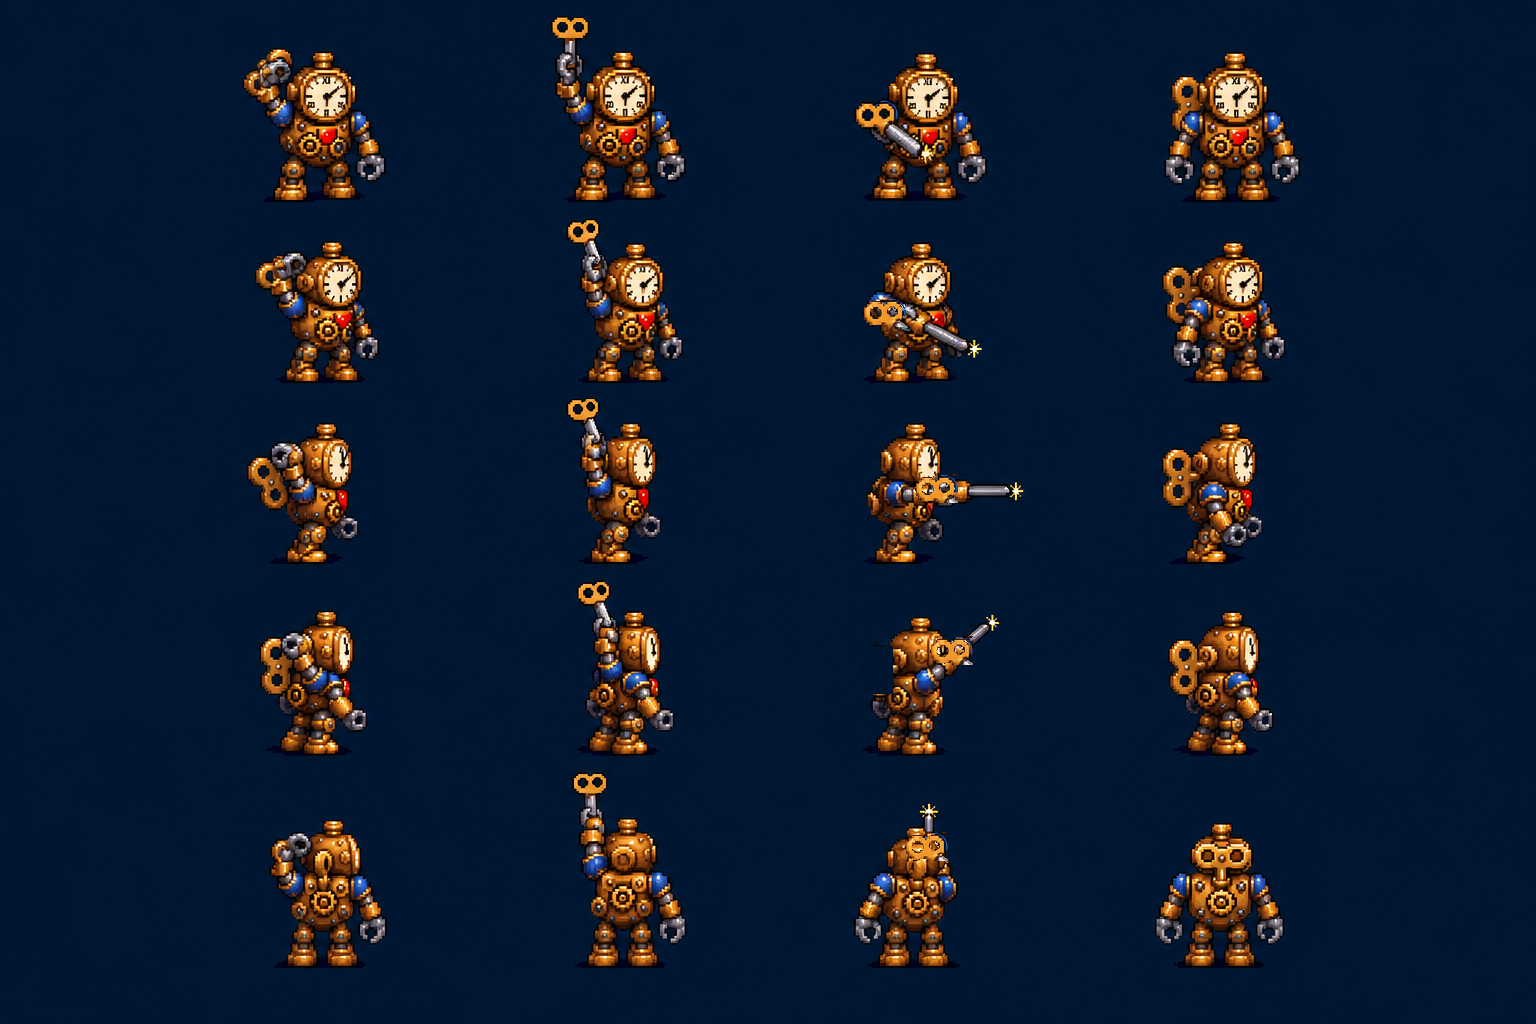
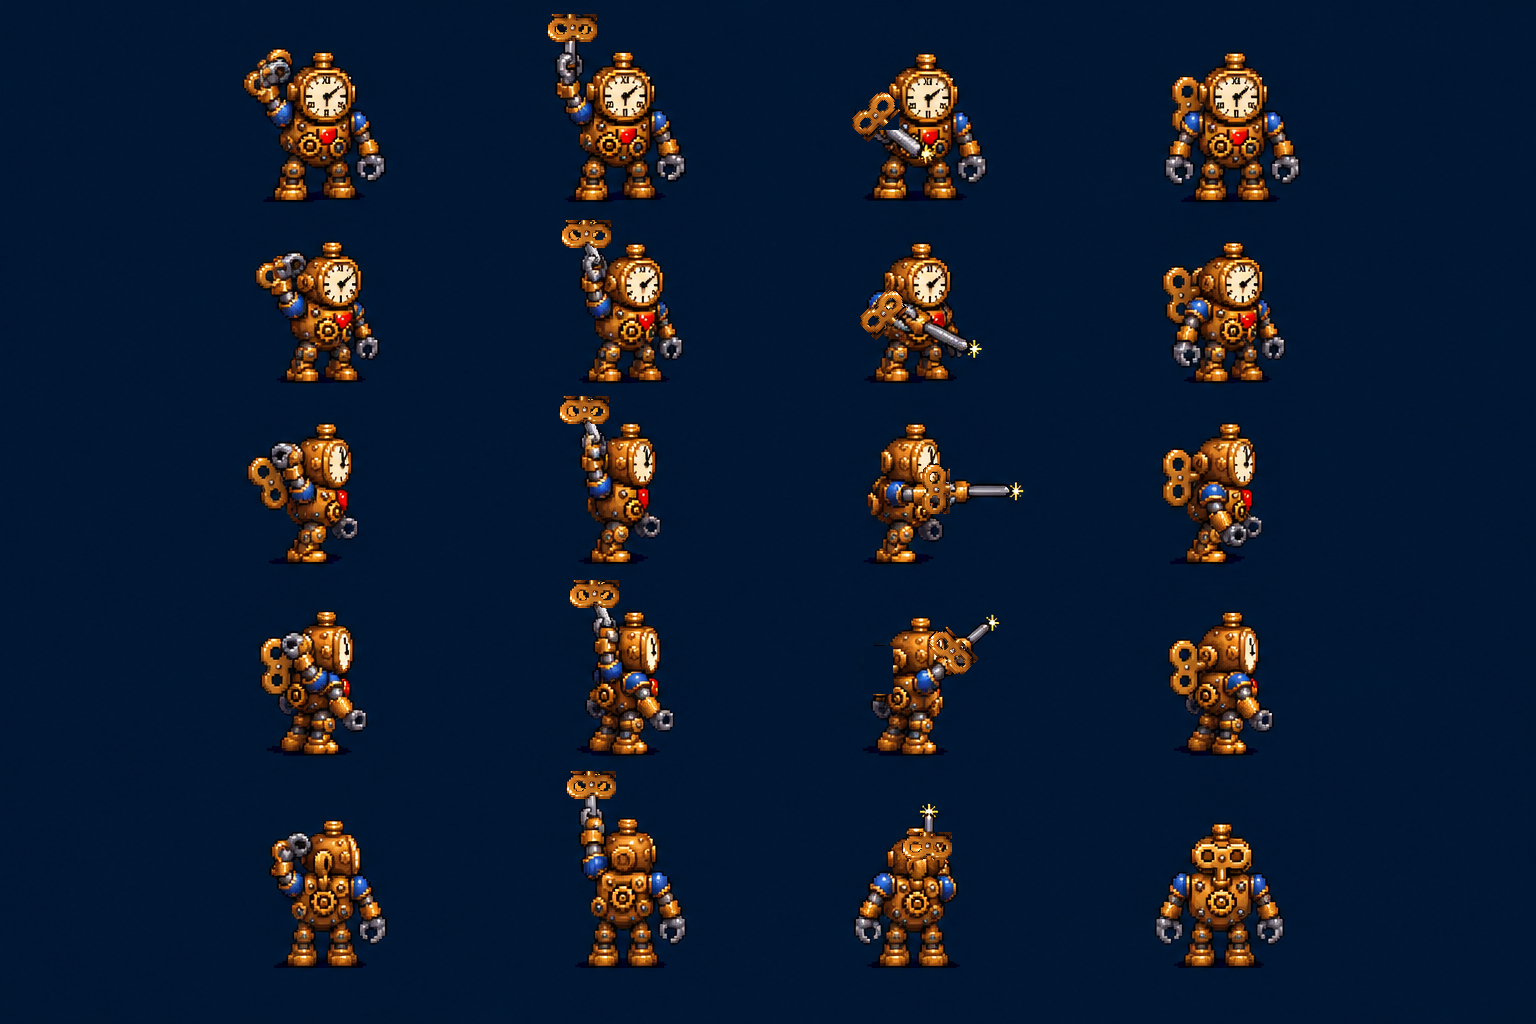
Art: Winder attack sheet with the chunky key bow everywhere
Claude-Session: https://claude.ai/code/session_01NtmEZhP1uA8k4DLQ7BYfMz

diff --git a/tools/winder_guide/fix_attack.py b/tools/winder_guide/fix_attack.py
@@ -1,6 +1,7 @@
 #!/usr/bin/env python3
-"""Composition fix of the ChatGPT Winder attack sheet: copy the good two-hole bow into the
-claws that lack it and erase the back key where the key is in the hand. Usage: fix_attack.py in.png out.png"""
+"""Composition fix of the ChatGPT Winder attack sheet: the chunky two-hole key bow of the back key
+(frames 1 and 4) is copied into every place the key is in the hand (frames 2 and 3), turned square
+to the shank; the back key is erased where it is in the hand. Usage: fix_attack.py in.png out.png"""
 import sys
 from PIL import Image
 import numpy as np
@@ -13,20 +14,25 @@ def cut(im, box):
 
 def main(src, out):
     im = Image.open(src).convert('RGB')
-    bow = cut(im, (855, 100, 898, 129))             # the good two-hole bow (south row, frame 3)
+    bow = cut(im, (1164, 448, 1196, 505))           # the chunky bow of the back key (east row, frame 4)
     sheet = im.copy()
     def erase(box):
         sheet.paste(Image.new('RGB', (box[2] - box[0], box[3] - box[1]), tuple(NAVY)), (box[0], box[1]))
-    def put(cx, cy, flip=False, scale=1.0):
-        b = bow.transpose(Image.FLIP_LEFT_RIGHT) if flip else bow
-        if scale != 1.0:
-            b = b.resize((int(b.width * scale), int(b.height * scale)), Image.NEAREST)
+    def put(cx, cy, angle, scale=0.9):
+        b = bow.resize((int(bow.width * scale), int(bow.height * scale)), Image.NEAREST)
+        b = b.rotate(angle, resample=Image.NEAREST, expand=True)
         sheet.paste(b, (cx - b.width // 2, cy - b.height // 2), b)
     erase((864, 646, 893, 694))                       # NE, frame 3: no key on the back (it is in the hand)
-    put(936, 488)                                     # E, frame 3: the bow in the claw
-    put(884, 312)                                     # SE, frame 3
-    put(951, 650)                                     # NE, frame 3
-    put(926, 846)                                     # N, frame 3
+    erase((856, 99, 899, 130))                        # S, frame 3: the thin bow
+    # frame 2: the key held high, the shank pointing down: the bow lies across it
+    for cx, cy in ((571, 28), (585, 234), (583, 410), (593, 594), (590, 785)):
+        put(cx, cy, 90)
+    # frame 3: the shank leads, the bow is square to it
+    put(876, 114, -45)      # S: shank toward the viewer, down and right
+    put(884, 312, -45)      # SE
+    put(936, 488, 0)        # E
+    put(951, 650, 45)       # NE
+    put(926, 846, 90)       # N
     sheet.save(out)
 
 if __name__ == '__main__':
